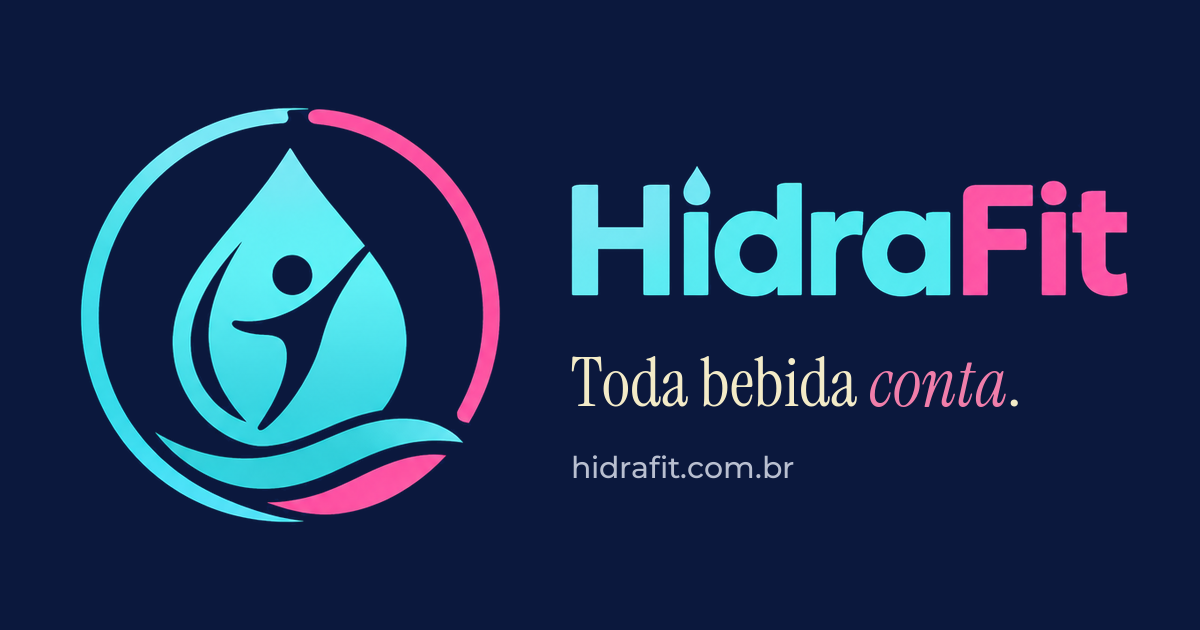
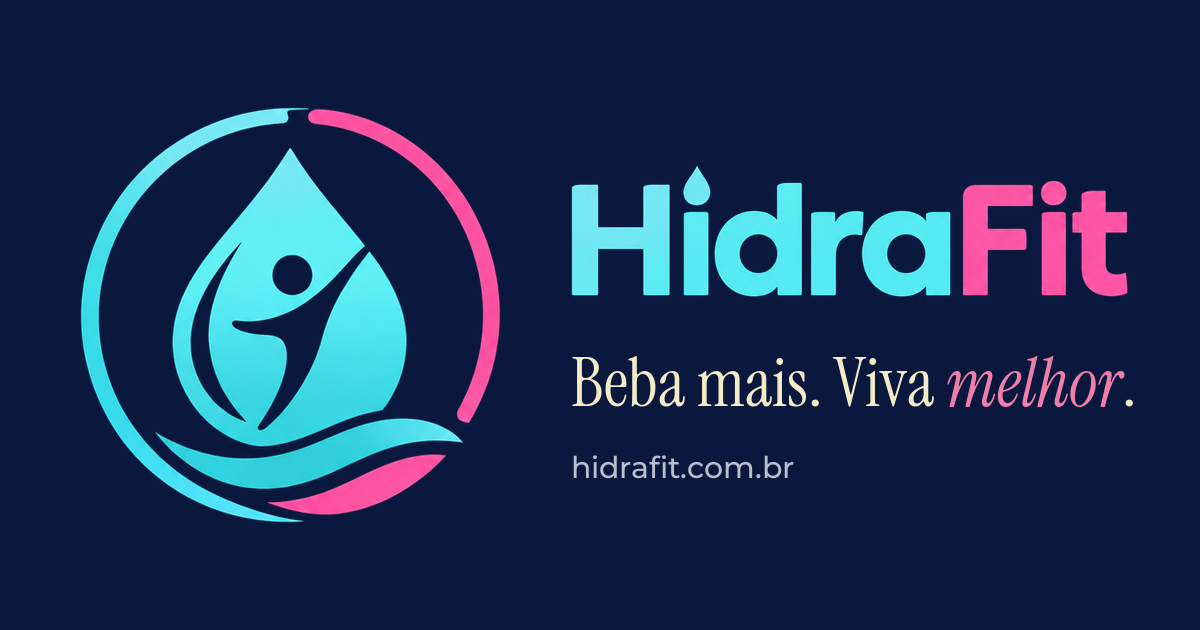
Slogan "Beba mais. Viva melhor." no site, na imagem social e na loja
Nome na loja vira "HidraFit: Lembrete de Água" e o slogan vai para o subtítulo.
Registra as decisões do dono (domínio fica com Andresa) e o roteiro do pedido no INPI.

Changed region(s): [[0.4625, 0.5429, 0.9558, 0.6635]]

diff --git a/index.html b/index.html
@@ -3,17 +3,17 @@
 <head>
 <meta charset="utf-8">
 <meta name="viewport" content="width=device-width, initial-scale=1">
-<title>HidraFit · Toda bebida conta</title>
+<title>HidraFit · Beba mais. Viva melhor.</title>
 <link rel="icon" type="image/png" href="favicon.png">
 <meta name="description" content="O HidraFit soma tudo o que você bebe, te lembra na hora certa e não cobra pelo básico. Grátis, sem anúncios, para iPhone e Android.">
-<meta property="og:title" content="HidraFit · Toda bebida conta">
+<meta property="og:title" content="HidraFit · Beba mais. Viva melhor.">
 <meta property="og:description" content="Café, chá, suco, água de coco: tudo conta. Lembrete que te entende, sem anúncios.">
 <meta property="og:type" content="website">
 <meta property="og:url" content="https://hidrafit.com.br/">
 <meta property="og:image" content="https://hidrafit.com.br/og.png">
 <meta property="og:image:width" content="1200">
 <meta property="og:image:height" content="630">
-<meta property="og:image:alt" content="Logo do HidraFit, uma gota com uma pessoa dentro, e a frase Toda bebida conta.">
+<meta property="og:image:alt" content="Logo do HidraFit, uma gota com uma pessoa dentro, e a frase Beba mais. Viva melhor.">
 <meta property="og:locale" content="pt_BR">
 <meta name="twitter:card" content="summary_large_image">
 <link rel="preconnect" href="https://fonts.googleapis.com">
@@ -171,8 +171,8 @@
     <div class="hero-grid">
       <div>
         <span class="tag left">Lembrete de beber, do jeito brasileiro</span>
-        <h1>Toda bebida <em>conta</em>.</h1>
-        <p class="lead">O cafezinho, o chá, o suco da tarde, a água de coco. O HidraFit soma tudo o que você bebe, te lembra na hora certa e não cobra pelo básico.</p>
+        <h1>Beba mais. Viva <em>melhor</em>.</h1>
+        <p class="lead">O cafezinho, o chá, o suco da tarde, a água de coco: toda bebida conta. O HidraFit soma tudo o que você bebe, te lembra na hora certa e não cobra pelo básico.</p>
         <p class="soon"><strong>Em breve</strong> na App Store e no Google Play.</p>
         <a class="btn" href="mailto:contato@hidrafit.com.br?subject=Quero%20saber%20quando%20o%20HidraFit%20lan%C3%A7ar">Me avise quando lançar</a>
         <p class="fine">Grátis. Sem anúncios. iPhone e Android.</p>

diff --git a/privacidade/index.html b/privacidade/index.html
@@ -11,7 +11,7 @@
 <meta property="og:image" content="https://hidrafit.com.br/og.png">
 <meta property="og:image:width" content="1200">
 <meta property="og:image:height" content="630">
-<meta property="og:image:alt" content="Logo do HidraFit, uma gota com uma pessoa dentro, e a frase Toda bebida conta.">
+<meta property="og:image:alt" content="Logo do HidraFit, uma gota com uma pessoa dentro, e a frase Beba mais. Viva melhor.">
 <meta property="og:locale" content="pt_BR">
 <meta name="twitter:card" content="summary_large_image">
 <link rel="preconnect" href="https://fonts.googleapis.com">

diff --git a/termos/index.html b/termos/index.html
@@ -11,7 +11,7 @@
 <meta property="og:image" content="https://hidrafit.com.br/og.png">
 <meta property="og:image:width" content="1200">
 <meta property="og:image:height" content="630">
-<meta property="og:image:alt" content="Logo do HidraFit, uma gota com uma pessoa dentro, e a frase Toda bebida conta.">
+<meta property="og:image:alt" content="Logo do HidraFit, uma gota com uma pessoa dentro, e a frase Beba mais. Viva melhor.">
 <meta property="og:locale" content="pt_BR">
 <meta name="twitter:card" content="summary_large_image">
 <link rel="preconnect" href="https://fonts.googleapis.com">
